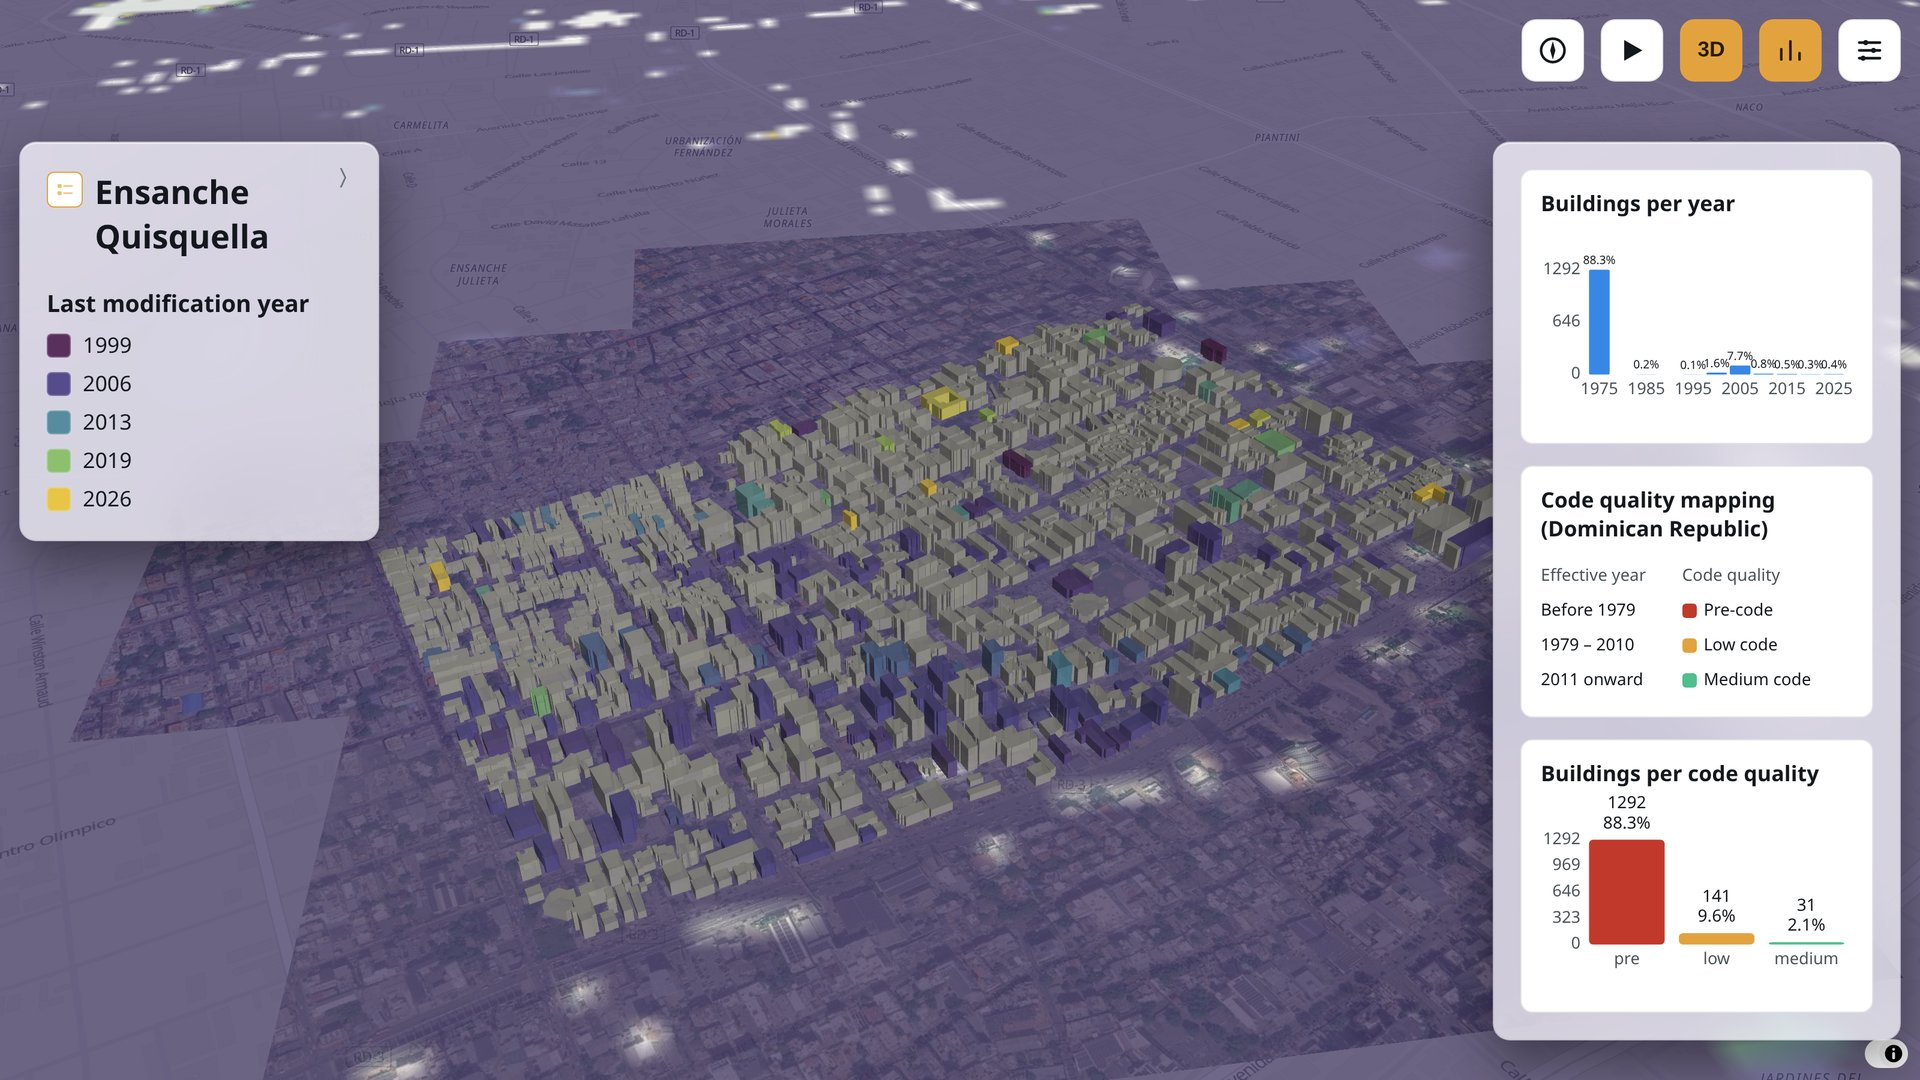
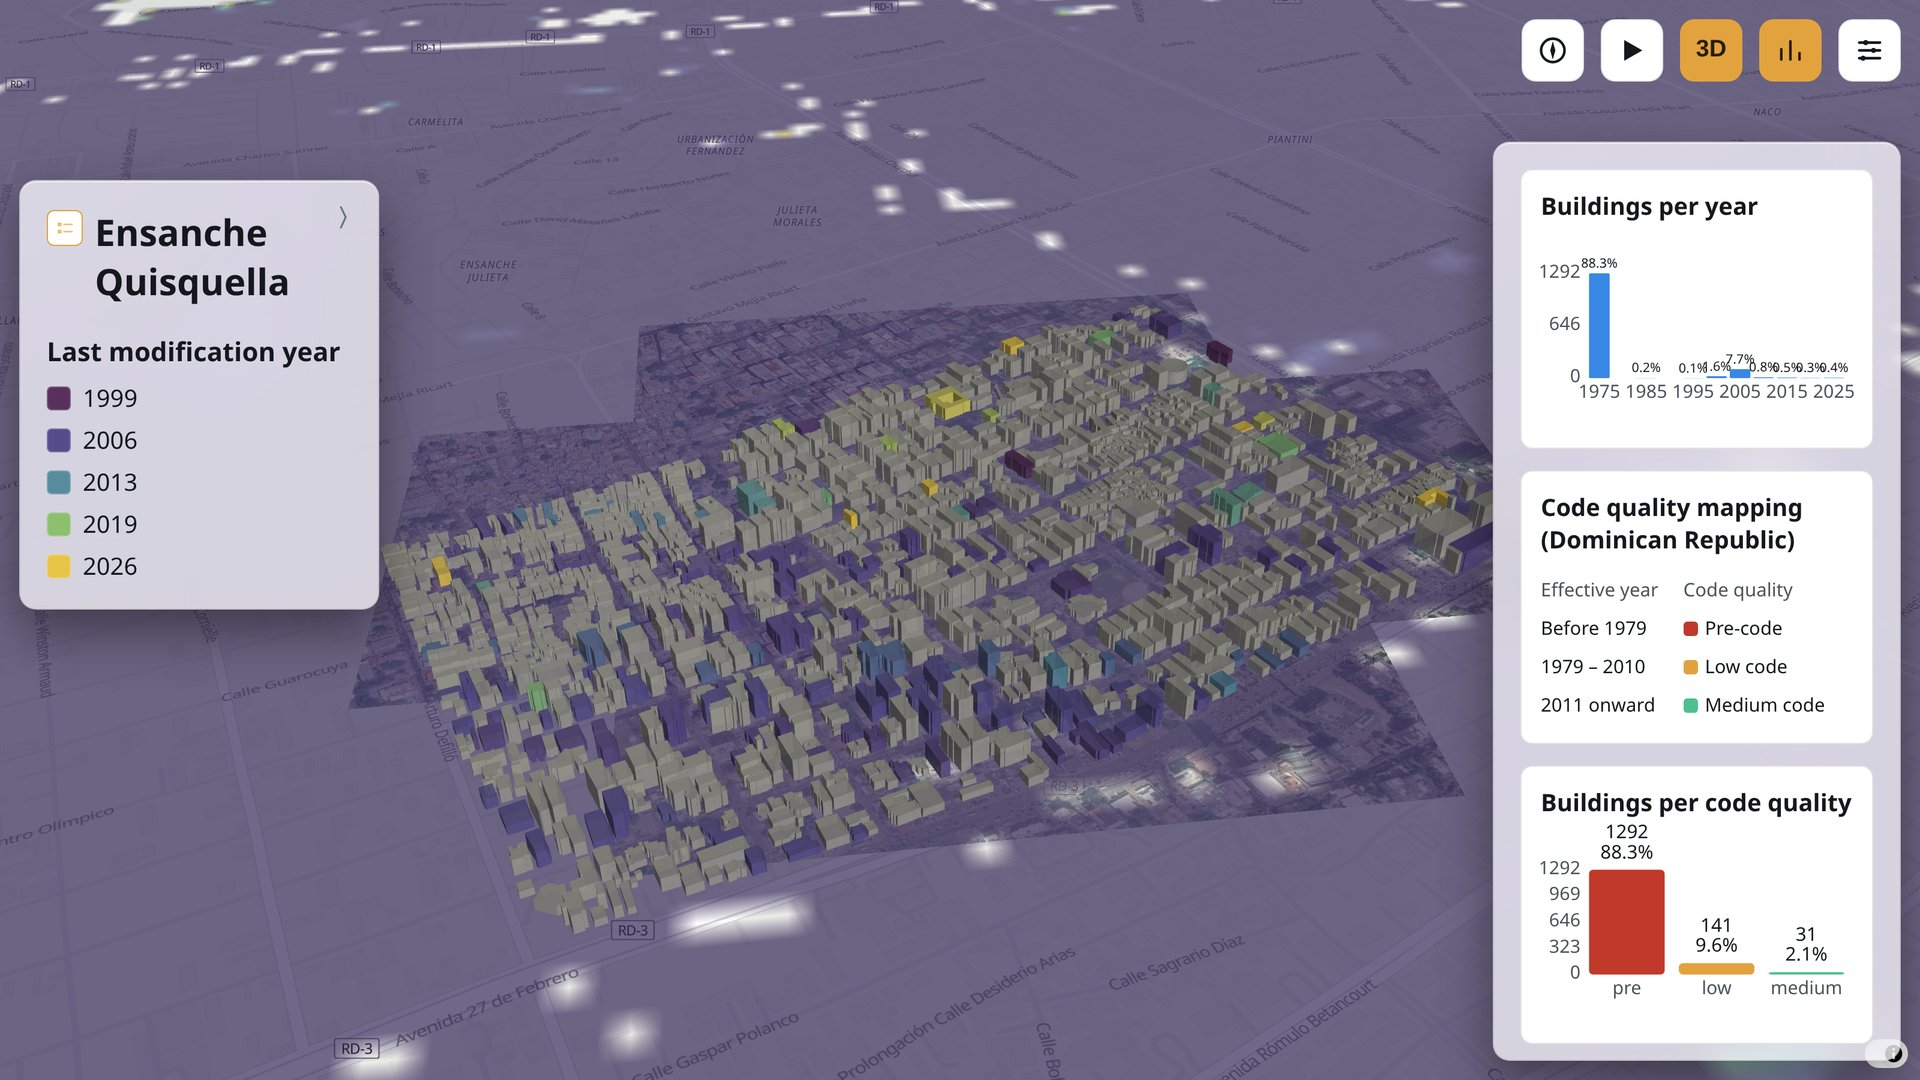
update

diff --git a/maps/intro/main.js b/maps/intro/main.js
@@ -26,7 +26,7 @@
 // from maps/shape_parameters/main.js). Dataset bounds are a concave hull
 // (turf.concave, falling back to convex) over building centroids, not a
 // bounding box, so the outline actually follows the survey footprint.
-const { GeoJsonLayer, TextLayer } = deck;
+const { GeoJsonLayer, TextLayer, ScatterplotLayer } = deck;
 const { MapboxOverlay } = deck;
 
 const STRUCTURAL_ROOT = "../../data/structural_system";
@@ -35,7 +35,8 @@ const DATASETS = [
   { id: "quisquella", label: "Ensanche Quisquella", short: "Quisquella", accent: "#e2a33f" },
   { id: "naco", label: "Centro", short: "Centro", accent: "#43b6c9" },
 ];
-const COUNTRY_LABEL = "Santo Domingo, Dominican Republic";
+const COUNTRY_LABEL = "Santo Domingo";
+const COUNTRY_MARKER_COLOR = [196, 30, 30];
 
 // URL params (attributes view only): ?view=attributes[&theme=dark][&plots=0]
 // -- theme and plots are independent toggles so any combination is
@@ -344,6 +345,13 @@ function setIs3D(value) {
   if (value) {
     map.dragRotate.enable();
     map.touchZoomRotate.enableRotation();
+    // 3D is only ever entered already at city-level zoom (the world view
+    // is always flat/2D), so the "Santo Domingo, Dominican Republic"
+    // marker -- which only makes sense zoomed all the way out -- should
+    // never still be showing once 3D activates, even if the zoom-based
+    // 'zoom' listener hasn't fired yet (e.g. a manual 3D toggle right as
+    // the lead-in flyTo is still settling).
+    if (!BARE_VIEW) state.labelsVisible = true;
   } else {
     map.dragRotate.disable();
     map.touchZoomRotate.disableRotation();
@@ -589,6 +597,28 @@ function renderLayers() {
       }),
     );
   } else {
+    // A red pin + short "Santo Domingo" label -- only shown zoomed all the
+    // way out (world/lead-in view). Both go away together, driven by the
+    // same state.labelsVisible gate this whole branch is already behind:
+    // it flips true (hiding this branch) once zoom crosses
+    // LABEL_ZOOM_THRESHOLD, and setIs3D(true) also forces it true the
+    // moment 3D activates, even before the zoom-based listener would have
+    // caught up.
+    const markerData = [{ position: combinedCentroid() }];
+    layers.push(
+      new ScatterplotLayer({
+        id: "country-marker",
+        data: markerData,
+        getPosition: (d) => d.position,
+        getFillColor: COUNTRY_MARKER_COLOR,
+        getRadius: 7,
+        radiusUnits: "pixels",
+        stroked: true,
+        getLineColor: [255, 255, 255, 255],
+        lineWidthUnits: "pixels",
+        getLineWidth: 2,
+      }),
+    );
     layers.push(
       new TextLayer({
         id: "country-label",
@@ -600,8 +630,9 @@ function renderLayers() {
         sizeUnits: "pixels",
         fontFamily: "system-ui, -apple-system, 'Segoe UI', sans-serif",
         fontWeight: 700,
-        getTextAnchor: "middle",
+        getTextAnchor: "start",
         getAlignmentBaseline: "center",
+        getPixelOffset: [12, 0],
         background: true,
         backgroundPadding: [10, 6],
         getBackgroundColor: [255, 255, 255, 220],

diff --git a/maps/structural_system/style.css b/maps/structural_system/style.css
@@ -5,7 +5,7 @@
 :root {
   color-scheme: light;
   font-family: system-ui, -apple-system, "Segoe UI", sans-serif;
-  font-size: 17px;
+  font-size: 19px;
 
   --bg: #eef1f3;
   --panel: rgba(255, 255, 255, 0.72);
@@ -89,11 +89,13 @@ body,
    legend must stay visible at all times, video mode included. */
 #controls {
   position: absolute;
-  top: 118px;
+  top: 150px;
   left: 16px;
   z-index: 10;
-  width: 300px;
-  max-height: calc(100vh - 134px);
+  width: fit-content;
+  max-width: 300px;
+  min-width: 220px;
+  max-height: calc(100vh - 166px);
   overflow-y: auto;
   border-radius: 14px;
   padding: 22px;
@@ -425,14 +427,21 @@ body,
    past the actual chart card, reading as an oversized empty gray box. */
 #charts-panel {
   position: absolute;
-  top: 118px;
+  top: 150px;
   right: 16px;
   z-index: 10;
   width: 520px;
-  max-height: calc(100vh - 134px);
+  max-height: calc(100vh - 166px);
   overflow-y: auto;
   border-radius: 14px;
   padding: 22px;
+}
+
+/* comparison view (learning curve + F1 across experiments) is fine at the
+   original, less-far-down position. */
+body.view-comparison #charts-panel {
+  top: 118px;
+  max-height: calc(100vh - 134px);
 }
 
 #charts-panel-content h2 {

diff --git a/maps/height/style.css b/maps/height/style.css
@@ -5,7 +5,7 @@
 :root {
   color-scheme: light;
   font-family: system-ui, -apple-system, "Segoe UI", sans-serif;
-  font-size: 17px;
+  font-size: 19px;
 
   --bg: #eef1f3;
   --panel: rgba(255, 255, 255, 0.72);
@@ -89,11 +89,13 @@ body,
    legend must stay visible at all times, video mode included. */
 #controls {
   position: absolute;
-  top: 118px;
+  top: 150px;
   left: 16px;
   z-index: 10;
-  width: 300px;
-  max-height: calc(100vh - 134px);
+  width: fit-content;
+  max-width: 300px;
+  min-width: 220px;
+  max-height: calc(100vh - 166px);
   overflow-y: auto;
   border-radius: 14px;
   padding: 22px;
@@ -425,11 +427,11 @@ body,
    past the actual chart card, reading as an oversized empty gray box. */
 #charts-panel {
   position: absolute;
-  top: 118px;
+  top: 150px;
   right: 16px;
   z-index: 10;
   width: 420px;
-  max-height: calc(100vh - 134px);
+  max-height: calc(100vh - 166px);
   overflow-y: auto;
   border-radius: 14px;
   padding: 22px;

diff --git a/maps/shape_parameters/style.css b/maps/shape_parameters/style.css
@@ -5,7 +5,7 @@
 :root {
   color-scheme: light;
   font-family: system-ui, -apple-system, "Segoe UI", sans-serif;
-  font-size: 17px;
+  font-size: 19px;
 
   --bg: #eef1f3;
   --panel: rgba(255, 255, 255, 0.72);
@@ -89,11 +89,13 @@ body,
    legend must stay visible at all times, video mode included. */
 #controls {
   position: absolute;
-  top: 118px;
+  top: 150px;
   left: 16px;
   z-index: 10;
-  width: 300px;
-  max-height: calc(100vh - 134px);
+  width: fit-content;
+  max-width: 300px;
+  min-width: 220px;
+  max-height: calc(100vh - 166px);
   overflow-y: auto;
   border-radius: 14px;
   padding: 22px;
@@ -425,11 +427,11 @@ body,
    past the actual chart card, reading as an oversized empty gray box. */
 #charts-panel {
   position: absolute;
-  top: 118px;
+  top: 150px;
   right: 16px;
   z-index: 10;
   width: 340px;
-  max-height: calc(100vh - 134px);
+  max-height: calc(100vh - 166px);
   overflow-y: auto;
   border-radius: 14px;
   padding: 22px;

diff --git a/maps/relative_position/style.css b/maps/relative_position/style.css
@@ -5,7 +5,7 @@
 :root {
   color-scheme: light;
   font-family: system-ui, -apple-system, "Segoe UI", sans-serif;
-  font-size: 17px;
+  font-size: 19px;
 
   --bg: #eef1f3;
   --panel: rgba(255, 255, 255, 0.72);
@@ -89,11 +89,13 @@ body,
    legend must stay visible at all times, video mode included. */
 #controls {
   position: absolute;
-  top: 118px;
+  top: 150px;
   left: 16px;
   z-index: 10;
-  width: 300px;
-  max-height: calc(100vh - 134px);
+  width: fit-content;
+  max-width: 300px;
+  min-width: 220px;
+  max-height: calc(100vh - 166px);
   overflow-y: auto;
   border-radius: 14px;
   padding: 22px;
@@ -393,11 +395,11 @@ body,
 /* ---------- charts panel (right side, persistent) ---------- */
 #charts-panel {
   position: absolute;
-  top: 118px;
+  top: 150px;
   right: 16px;
   z-index: 10;
   width: 340px;
-  max-height: calc(100vh - 134px);
+  max-height: calc(100vh - 166px);
   overflow-y: auto;
   border-radius: 14px;
   padding: 22px;

diff --git a/maps/roof_material/style.css b/maps/roof_material/style.css
@@ -5,7 +5,7 @@
 :root {
   color-scheme: light;
   font-family: system-ui, -apple-system, "Segoe UI", sans-serif;
-  font-size: 17px;
+  font-size: 19px;
 
   --bg: #eef1f3;
   --panel: rgba(255, 255, 255, 0.72);
@@ -89,11 +89,13 @@ body,
    legend must stay visible at all times, video mode included. */
 #controls {
   position: absolute;
-  top: 118px;
+  top: 150px;
   left: 16px;
   z-index: 10;
-  width: 300px;
-  max-height: calc(100vh - 134px);
+  width: fit-content;
+  max-width: 300px;
+  min-width: 220px;
+  max-height: calc(100vh - 166px);
   overflow-y: auto;
   border-radius: 14px;
   padding: 22px;
@@ -393,7 +395,7 @@ body,
 /* ---------- charts panel (right side, persistent) ---------- */
 #charts-panel {
   position: absolute;
-  top: 118px;
+  top: 150px;
   right: 16px;
   bottom: 16px;
   z-index: 10;

diff --git a/maps/structural_system/main.js b/maps/structural_system/main.js
@@ -145,6 +145,11 @@ const VIEW_PRESETS = {
 };
 const URL_PARAMS = new URLSearchParams(location.search);
 const ACTIVE_VIEW = VIEW_PRESETS[URL_PARAMS.get("view")] ? URL_PARAMS.get("view") : null;
+// Lets theme/ecee2026.css-adjacent style.css target one view specifically
+// (the comparison view's charts-panel -- learning curve + F1 across
+// experiments -- sits lower already and doesn't need the same top offset
+// every other view's charts-panel got moved down to).
+if (ACTIVE_VIEW) document.body.classList.add(`view-${ACTIVE_VIEW}`);
 const INITIAL_EXPERIMENT = (ACTIVE_VIEW && VIEW_PRESETS[ACTIVE_VIEW].defaultExperiment) || DEFAULT_EXPERIMENT;
 // &colorMode=<name>: pins the showcase to one color-by mode forever instead
 // of cycling through truth/predicted/error/uncertainty/consensus (e.g. a

diff --git a/maps/year/style.css b/maps/year/style.css
@@ -5,7 +5,7 @@
 :root {
   color-scheme: light;
   font-family: system-ui, -apple-system, "Segoe UI", sans-serif;
-  font-size: 17px;
+  font-size: 19px;
 
   --bg: #eef1f3;
   --panel: rgba(255, 255, 255, 0.72);
@@ -89,11 +89,13 @@ body,
    legend must stay visible at all times, video mode included. */
 #controls {
   position: absolute;
-  top: 118px;
+  top: 150px;
   left: 16px;
   z-index: 10;
-  width: 300px;
-  max-height: calc(100vh - 134px);
+  width: fit-content;
+  max-width: 300px;
+  min-width: 220px;
+  max-height: calc(100vh - 166px);
   overflow-y: auto;
   border-radius: 14px;
   padding: 22px;

diff --git a/maps/template/style.css b/maps/template/style.css
@@ -9,7 +9,7 @@
      read from across a room on a projector, not hovered over on a laptop.
      Every panel/legend/table font-size below is in rem, so this one value
      scales the whole UI — tune it here rather than per-rule. */
-  font-size: 17px;
+  font-size: 19px;
 
   --bg: #0a0c0f;
   --panel: rgba(22, 27, 33, 0.48);

diff --git a/maps/intro/style.css b/maps/intro/style.css
@@ -4,7 +4,7 @@
 :root {
   color-scheme: light;
   font-family: system-ui, -apple-system, "Segoe UI", sans-serif;
-  font-size: 17px;
+  font-size: 19px;
 
   --bg: #eef1f3;
   --panel: rgba(255, 255, 255, 0.72);
